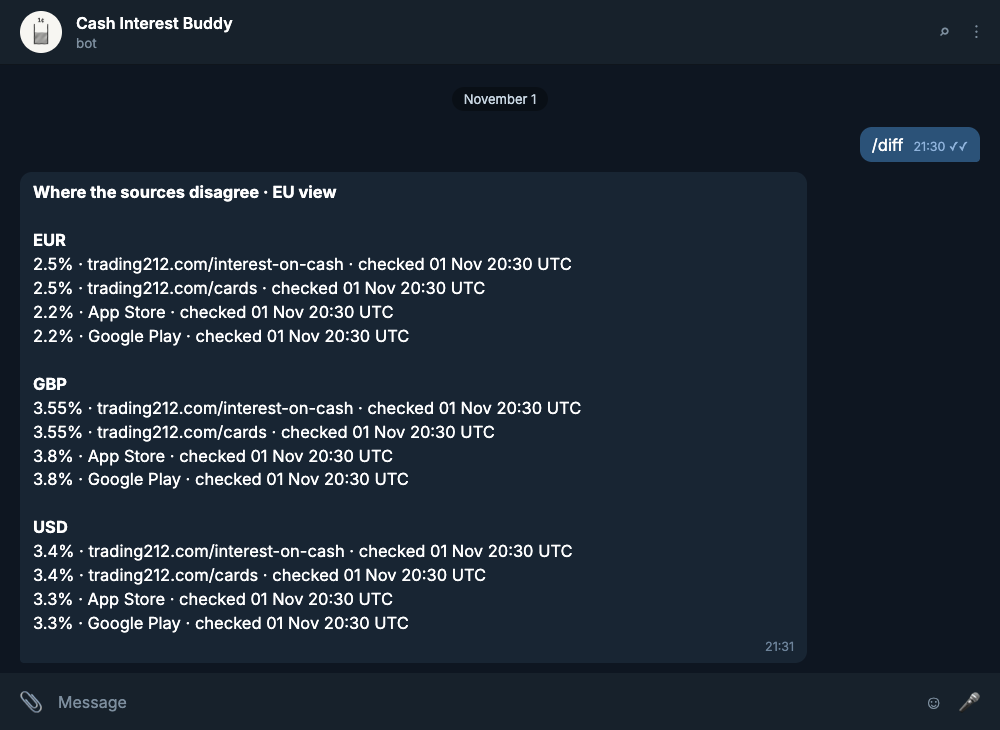
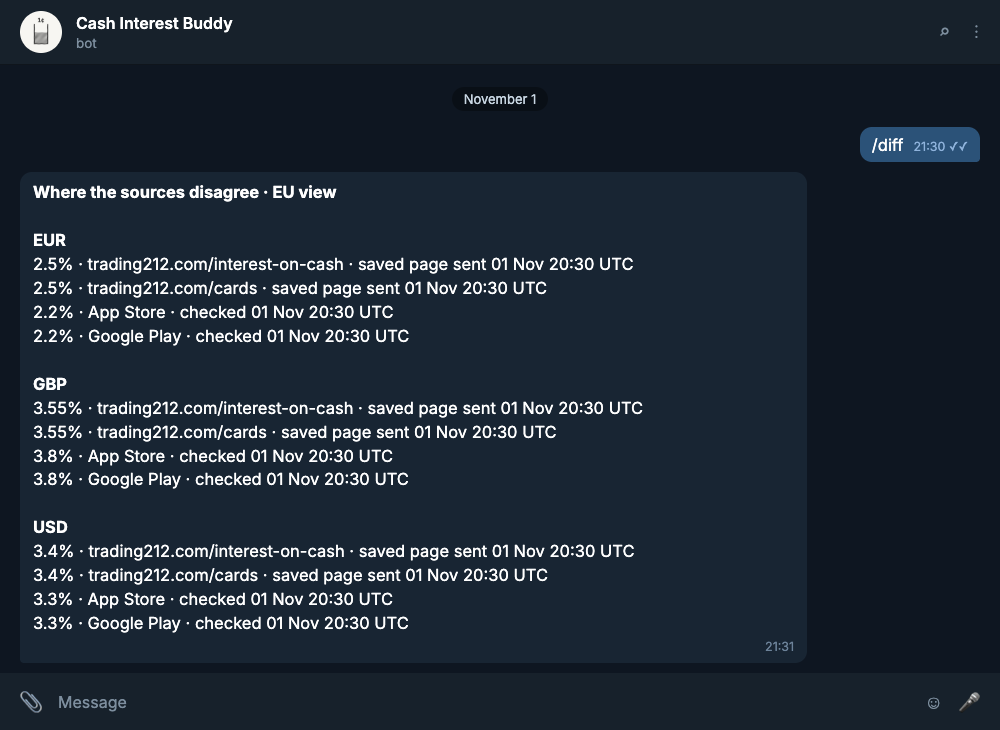
A saved page says it was sent, not checked
The /rates footer and /diff said "checked" for a page the owner sent; the bot
checked nothing then. They now say "saved page sent", and a stale value says
whether it came from a saved page or a check.

Changed region(s): [[0.279, 0.7233, 0.62, 0.8137], [0.279, 0.3315, 0.62, 0.4219], [0.279, 0.5425, 0.651, 0.6027]]

diff --git a/tests/test_replies.py b/tests/test_replies.py
@@ -33,6 +33,24 @@ class TestSourceLine:
         line = replies.source_line(state(SourceId.APP_STORE, STORE_EU, failing_since=LATER, problem="HTTP 502"))
         assert line == "iOS: stale since 02 Nov 02:30 (HTTP 502); value from the last good check, 01 Nov 20:30"
 
+    def test_a_saved_page_is_not_a_check(self) -> None:
+        line = replies.source_line(state(SourceId.SITE, SITE_EU, via="upload"))
+        assert line == "site: saved page sent 01 Nov 20:30"
+
+    def test_diff_says_where_a_value_came_from(self) -> None:
+        later = NOW + timedelta(hours=6)
+        states = {
+            SourceId.SITE: state(SourceId.SITE, SITE_EU, via="upload"),
+            SourceId.CARDS: state(
+                SourceId.CARDS, SITE_EU, failing_since=later, problem="HTTP 403, bot check", via="upload"
+            ),
+            SourceId.APP_STORE: state(SourceId.APP_STORE, STORE_EU, failing_since=later, problem="HTTP 502"),
+        }
+        text = replies.diff(states, Region.EU)
+        assert "2.5% · trading212.com/interest-on-cash · saved page sent 01 Nov 20:30 UTC" in text
+        assert "HTTP 403, bot check; this value is from a saved page sent 01 Nov 20:30 UTC" in text
+        assert "HTTP 502; this value is from a check at 01 Nov 20:30 UTC" in text
+
     def test_problems_are_escaped(self) -> None:
         line = replies.source_line(state(SourceId.SITE, {}, failing_since=NOW, problem="<script>"))
         assert "&lt;script&gt;" in line

diff --git a/cash_interest/bot/replies.py b/cash_interest/bot/replies.py
@@ -54,7 +54,8 @@ def source_line(state: SourceState) -> str:
     if state.checked_at is None:
         return f"{name}: not checked yet"
     if state.failing_since is None:
-        return f"{name}: checked {when(state.checked_at)}"
+        sent = state.via == "upload"  # the bot read a page the owner sent; it checked nothing
+        return f"{name}: {'saved page sent' if sent else 'checked'} {when(state.checked_at)}"
     problem = escape(state.problem or "failed")
     if not state.rates:
         return f"{name}: no value since {when(state.failing_since)} ({problem})"
@@ -158,9 +159,12 @@ def _checked(state: SourceState) -> str:
     """When a source was last asked and, if that failed, why and how old its value is."""
     if state.checked_at is None:
         return "not checked yet"
+    if state.failing_since is None and state.via == "upload":
+        return f"saved page sent {when(state.checked_at)} UTC"
     text = f"checked {when(state.checked_at)} UTC"
     if state.failing_since is not None and state.ok_at is not None:
-        text += f" ({escape(state.problem or 'failed')}; this value is from {when(state.ok_at)} UTC)"
+        source = "a saved page sent" if state.via == "upload" else "a check at"
+        text += f" ({escape(state.problem or 'failed')}; this value is from {source} {when(state.ok_at)} UTC)"
     return text
 
 
